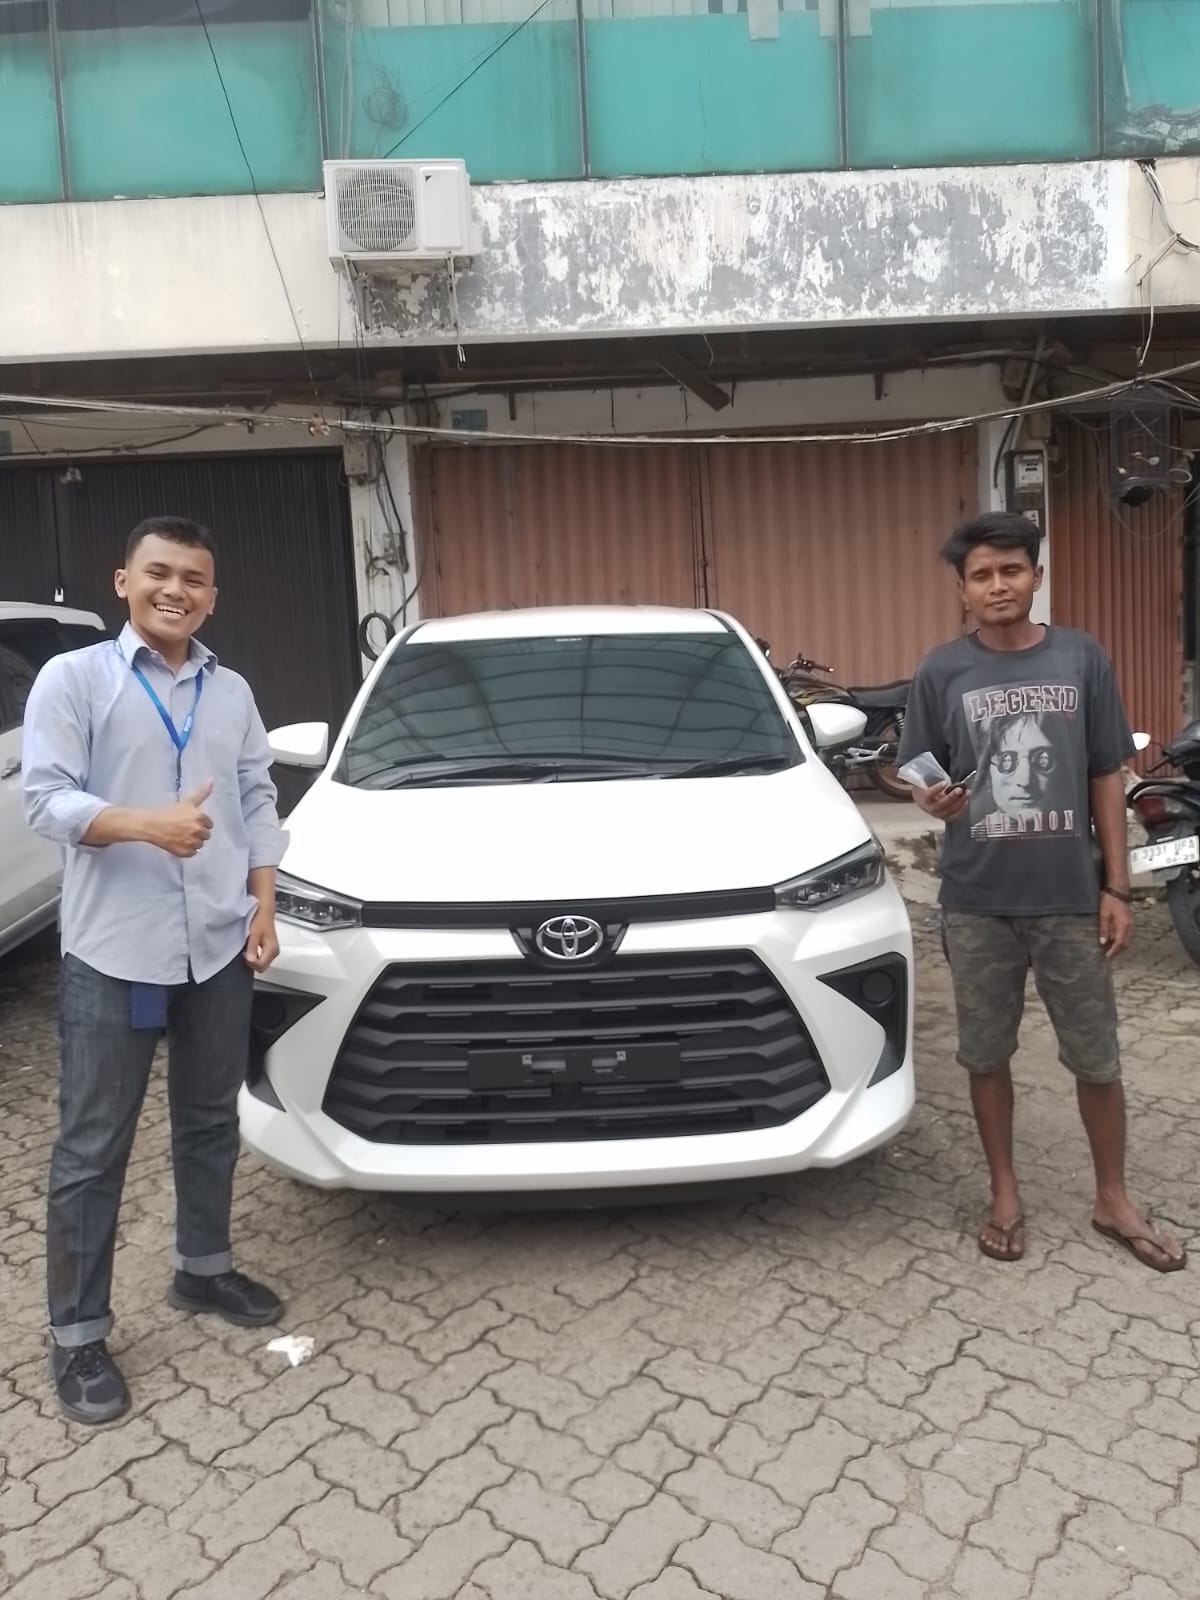
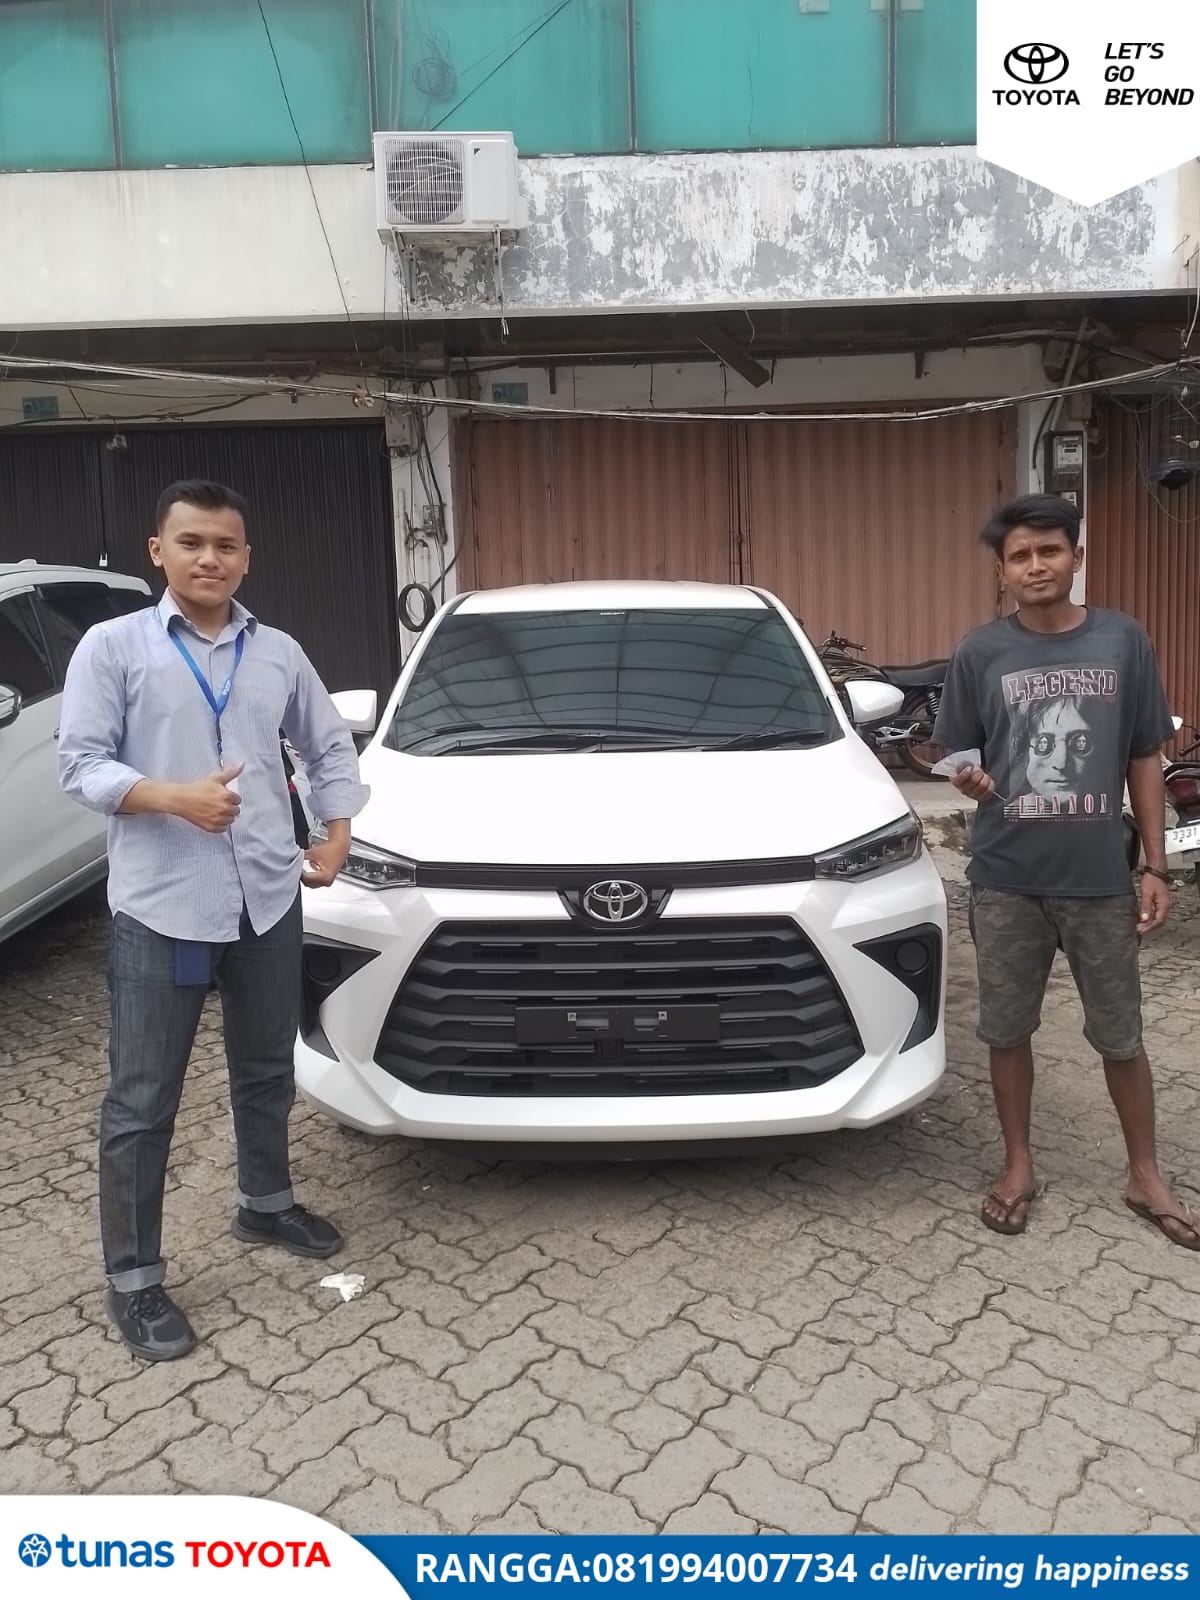
Mengupdate header, footer, dan foto customer

diff --git a/Next JS/toyota_baru/components/Footer.tsx b/Next JS/toyota_baru/components/Footer.tsx
@@ -1,8 +1,73 @@
+'use client'
+
+import Image from 'next/image'
+
 export default function Footer() {
+
+    function kirimPesan()  {
+        const url = 'https://wa.me/6281994007734?text=Halo%20Rangga%20Toyota%2C%20saya%20tertarik%20dengan%20mobil%20yang%20Anda%20jual';
+        window.open(url, '_blank');
+    }
+
+    const ContactButton = () => {
+        const emailAddress = 'ranggacars20@gmail.com'; // Ganti dengan alamat email tujuan
+        const subject = 'Halo Rangga Toyota'; // Tambahkan subjek jika diinginkan
+        const body = 'Rangga Toyota saya tertarik dengan mobil yang anda jual.'; // Tambahkan isi pesan jika diinginkan
+
+        const gmailURL = `https://mail.google.com/mail/?view=cm&fs=1&to=${encodeURIComponent(emailAddress)}&su=${encodeURIComponent(subject)}&body=${encodeURIComponent(body)}`;
+        window.open(gmailURL, '_blank'); // Buka email client
+    }
+
     return (
-        <footer className="bg-blue-900 text-white py-6 md:py-8">
-            <div className="container mx-auto px-4 text-center">
-            <p className="text-sm font-bold md:text-base">&copy; {new Date().getFullYear()} Rangga Toyota - Sales Mobil Profesional. All rights reserved.</p>
+        <footer className="bg-blue-900 text-white py-8">
+            <div className="container mx-auto px-4"></div>
+            <div className="flex flex-col md:flex-row items-center justify-between gap-6">
+                {/* Logo Section */}
+                <div className="flex flex-col items-center md:items-start ml-1">
+                    <Image
+                        src={"/img/tunas_toyota2.png"}
+                        alt="Tunas Toyota"
+                        width={200}
+                        height={50}
+                        className='bg-white p-2 rounded-full'
+                    />
+                </div>
+
+                {/* Contact Information */}
+                <div className="flex flex-col gap-3 text-center md:text-left">
+                <h3 className="font-bold text-lg">Contact Us</h3>
+                <a href="" onClick={kirimPesan} className="hover:text-gray-300 flex items-center justify-center md:justify-start gap-2">
+                    <i className="fab fa-whatsapp"></i>
+                    +62 819-9400-7734
+                </a>
+                <a href="" onClick={ContactButton} className="hover:text-gray-300 flex items-center justify-center md:justify-start gap-2">
+                    <i className="far fa-envelope"></i>
+                    ranggacars20@gmail.com
+                </a>
+                <a href="https://www.instagram.com/rangga_toyota20?igsh=M3NpMThyNzFwNnc1" className="hover:text-gray-300 flex items-center justify-center md:justify-start gap-2">
+                    <i className="fab fa-instagram"></i>
+                    @rangga_toyota20
+                </a>
+                </div>
+
+                {/* Location */}
+                <div className="w-full md:w-1/3">
+                <iframe 
+                src="https://www.google.com/maps/embed?pb=!1m18!1m12!1m3!1d63467.9582650488!2d106.78321594753318!3d-6.164574499999995!2m3!1f0!2f0!3f0!3m2!1i1024!2i768!4f13.1!3m3!1m2!1s0x2e69f5e38ed917d7%3A0xdc95f7ac5e8fdfdc!2sTunas%20Toyota%20Pecenongan!5e0!3m2!1sid!2sid!4v1738543603660!5m2!1sid!2sid" 
+                width="70%" 
+                height="200" 
+                style={{ border: 0 }} 
+                allowFullScreen 
+                loading="lazy" 
+                referrerPolicy="no-referrer-when-downgrade"
+                className='rounded-lg shadow-xl mx-auto'
+                ></iframe>
+                </div>
+            </div>
+
+            {/* Copyright */}
+            <div className="text-center mt-6 pt-6 border-t border-blue-800">
+                <p className="text-sm md:text-base font-bold">&copy; {new Date().getFullYear()} Rangga Toyota - Sales Mobil Profesional. All rights reserved.</p>
             </div>
         </footer>
     )

diff --git a/Next JS/toyota_baru/components/Header.tsx b/Next JS/toyota_baru/components/Header.tsx
@@ -1,8 +1,9 @@
 'use client'
 
 import Link from 'next/link'
+import Image from 'next/image'
 import { useState } from 'react'
-import { Menu, X, Instagram, Youtube, Phone, Mail } from 'lucide-react'
+import { Menu, X, Instagram, MapPin, Phone, Mail } from 'lucide-react'
 import Button from './ui/Button'
 
 export default function Header() {
@@ -25,7 +26,16 @@ export default function Header() {
     return (
         <header className="bg-blue-900 shadow-sm">
             <nav className="container mx-auto px-4 py-4 flex justify-between items-center">
-                <Link href="/" className="text-xl font-bold text-white">Rangga Toyota</Link>
+                {/* <Link href="/" className="text-xl font-bold text-white"><span className='text-red-600'>Rangga</span> <span className='text-blue-600'>Toyota</span></Link> */}
+                <div className="flex flex-col items-center md:items-start ml-1">
+                    <Image
+                        src={"/img/tunas_toyota2.png"}
+                        alt="Tunas Toyota"
+                        width={200}
+                        height={50}
+                        className='bg-white p-2 rounded-full'
+                    />
+                </div>
                 <div className="md:hidden">
                     <Button variant="outline" size="icon" className="text-white" onClick={() => setIsMenuOpen(!isMenuOpen)}>
                         {isMenuOpen ? <X /> : <Menu />}
@@ -40,8 +50,8 @@ export default function Header() {
                     </Link></li>
                     <li><Link href="#Youtube" className="block py-2 md:py-0 text-white hover:text-red-500">
                     <div className="group flex relative">
-                        <p className='text-sm  absolute -top-6 left-1/2 transform -translate-x-1/2 hidden lg:group-hover:block  text-red-500  rounded-lg transition-all duration-700 shadow-sm'>Youtube</p>
-                        <Youtube className="w-6 h-6 md:w-5 md:h-5" />
+                        <p className='text-sm  absolute -top-6 left-1/2 transform -translate-x-1/2 hidden lg:group-hover:block  text-red-500  rounded-lg transition-all duration-700 shadow-sm'>Map</p>
+                        <MapPin className="w-6 h-6 md:w-5 md:h-5" />
                     </div>
                     </Link></li>
                     <li><Link href="#" className="block py-2 md:py-0 text-white hover:text-red-500">

diff --git a/Next JS/toyota_baru/components/CarGallery.tsx b/Next JS/toyota_baru/components/CarGallery.tsx
@@ -23,7 +23,7 @@ export default function CarGallery() {
     return (
         <section id="mobil" className="py-12 md:py-20 bg-white">
         <div className="container mx-auto px-4">
-            <h2 className="text-2xl md:text-3xl font-bold text-center mb-8 md:mb-12">Pilihan Mobil Terbaik</h2>
+            <h2 className="text-2xl md:text-3xl font-bold text-center mb-8 md:mb-12 text-blue-900">Pilihan Mobil Terbaik</h2>
             <div className="grid grid-cols-1 sm:grid-cols-2 lg:grid-cols-3 gap-6 md:gap-8">
                 {cars.map((car, index) => (
                     <div key={car.id} className="bg-gray-100 rounded-lg overflow-hidden shadow-md hover:shadow-lg hover:shadow-slate-300" data-aos="fade-up" data-aos-delay={index * 100}>
@@ -39,6 +39,7 @@ export default function CarGallery() {
                     </div>
                 ))}
             </div>
+            <p className='text-md text-slate-500 text-center mt-6 font-semibold'><span className='text-red-600'>*</span> Untuk pemesanan model lainnya bisa hubungi saya</p>
         </div>
         </section>
     )

diff --git a/Next JS/toyota_baru/components/CustomerCarousel.tsx b/Next JS/toyota_baru/components/CustomerCarousel.tsx
@@ -9,8 +9,8 @@ import Button from './ui/Button'
 const customerPhotos = [
     { id: 1, image: '/img/foto_cus1.jpg', alt: 'Pelanggan 1 dengan Sales', caption: 'Pak Sidik dengan Pelanggan Puas' },
     { id: 2, image: '/img/foto_cus2.jpg', alt: 'Pelanggan 2 dengan Sales', caption: 'Transaksi Sukses dengan Pak Fendy' },
-    { id: 3, image: '/img/foto_cus1.jpg', alt: 'Pelanggan 3 dengan Sales', caption: 'Keluarga Bahagia dengan Mobil Baru' },
-    { id: 4, image: '/img/foto_cus2.jpg', alt: 'Pelanggan 4 dengan Sales', caption: 'Pak Rudi Menerima Kunci Mobil' },
+    { id: 3, image: '/img/foto_cus3.jpg', alt: 'Pelanggan 3 dengan Sales', caption: 'Keluarga Bahagia dengan Mobil Baru' },
+    { id: 4, image: '/img/foto_cus4.jpg', alt: 'Pelanggan 4 dengan Sales', caption: 'Bu Lutfi Menerima Kunci Mobil' },
     { id: 5, image: '/img/foto_cus1.jpg', alt: 'Pelanggan 5 dengan Sales', caption: 'Pak Rusdi Senang Dengan Mobilnya' },
     { id: 6, image: '/img/foto_cus2.jpg', alt: 'Pelanggan 6 dengan Sales', caption: 'Pak Akbar Semoga Sukses' },
 ]

diff --git a/Next JS/toyota_baru/components/Testimonials.tsx b/Next JS/toyota_baru/components/Testimonials.tsx
@@ -19,12 +19,12 @@ const testimonials = [
     },
     {
         id: 3,
-        name: 'Ferdi',
+        name: 'Desari',
         comment: 'Rangga memberikan saran yang sangat membantu dalam memilih mobil untuk keluarga saya. Sangat direkomendasikan!',
     },
     {
         id: 4,
-        name: 'Lisa Permata',
+        name: 'Lutfi',
         comment: 'Saya sangat puas dengan layanan Rangga. Dia sangat profesional dan memahami kebutuhan pelanggan dengan baik.',
     },
     {
